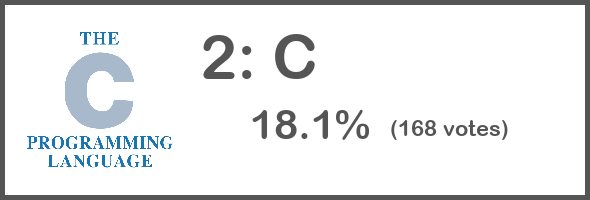
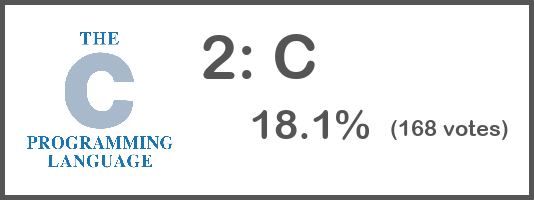
background adjusts to width of text

diff --git a/SurveyGraph.py b/SurveyGraph.py
@@ -45,6 +45,7 @@ colorhex_sortedlst = [colors_ref.at[cname, 'color'] for cname in colornames_sort
 STEP 2: defining Create Language Label Image
 """
 def CreateLangLabelImg_fx(lang_rank, lang_name, vote_percent, vote_count, q_name):
+	'''finding Color and finding Logo image'''
 	# addition to lang_rank
 	lang_rank += 1
 	# finding lang color using Ref table
@@ -59,13 +60,7 @@ def CreateLangLabelImg_fx(lang_rank, lang_name, vote_percent, vote_count, q_name
 	else:
 		lang_logo = Image.open(lang_name+'.png')
 	
-	os.chdir('..')
-	
-	# creating white background
-	background_img = Image.new('RGBA', (580, 190), 'white')
-	# adding border
-	background_img = ImageOps.expand(background_img, border = 5, fill = lang_color)
-	
+	os.chdir('..')	
 	
 	'''Logo'''
 	# resizing LangLogo
@@ -87,26 +82,17 @@ def CreateLangLabelImg_fx(lang_rank, lang_name, vote_percent, vote_count, q_name
 	else:
 		lang_logo = lang_logo.resize((160,160))
 	
-	# pasting LangLogo onto background, creating full image
-	full_img = background_img.copy()
-	# calculating the position of the logo
-	logo_position = (int(20 + (160-lang_logo.size[0])/2), int(20 + (160-lang_logo.size[1])/2))
-	# try as mask
-	try:
-		full_img.paste(lang_logo, logo_position, mask = lang_logo)
-	# if logo is no mask, paste as normal
-	except ValueError:
-		full_img.paste(lang_logo, logo_position)
+	
 	
 	'''Title'''
 	# defining Lang Title Str for the #2 current tie
 	if q_name == 'Q2Current' and lang_name in ['Java', 'JavaScript']:
-		lang_title_str = '2: ' + lang_name
+		lang_title_str = '2 (tie): ' + lang_name
 	# defining the normal Lang Title Str
 	else:
 		lang_title_str = str(lang_rank) + ': ' + lang_name
 	
-	# determing which font number is closest to 65 height for the Title
+	# determing which font number is closest to 60 height for the Title
 	for fsize in np.arange(100,0,-1):
 		# creating langFont
 		lang_title_fnt = ImageFont.truetype('ARLRDBD.TTF', fsize)
@@ -114,28 +100,10 @@ def CreateLangLabelImg_fx(lang_rank, lang_name, vote_percent, vote_count, q_name
 		if lang_title_fnt.getsize(lang_title_str)[1] <= 60:
 			break
 	
-	# determining Title position
-	lang_title_position = (200,20)
-	# creating draw object
-	full_draw = ImageDraw.Draw(full_img)
-	# drawing colored center
-	full_draw.text(lang_title_position, lang_title_str, fill = lang_color, font = lang_title_fnt)
+	# finding the size of the title
+	lang_title_size = lang_title_fnt.getsize(lang_title_str)
 	
-	# drawing black outline... anchor is (290, 30)
-	# FIX LATER
-	'''
-	for position_tup in (list(it.product(np.arange(287, 294), [18])) +	#top border
-							  list(it.product(np.arange(289, 291), [17])) +	#top border extra
-							  list(it.product([292], np.arange(18, 23))) +	#right border
-							  list(it.product([293], np.arange(19, 22))) +	#right border extra
-							  list(it.product(np.arange(287,294), [22])) +	#bottom border
-							  list(it.product(np.arange(289,291), [23])) +	#bottom border extra
-							  list(it.product([288], np.arange(18,23))) +	#left border
-							  list(it.product([287], np.arange(19,22)))):	#left border extra
-		full_draw.text(position_tup, lang_name, fill = 'black', font = lang_fnt)
-	'''
-	
-	'''Vote Info'''
+	'''Vote Perc'''
 	# defining Lang VotePerc Str
 	lang_voteperc_str = '{:.1%}'.format(vote_percent)
 	
@@ -149,9 +117,8 @@ def CreateLangLabelImg_fx(lang_rank, lang_name, vote_percent, vote_count, q_name
 	
 	# defining Lang VotePerc Size
 	lang_voteperc_size = lang_voteperc_fnt.getsize(lang_voteperc_str)
-	# drawing Lang VotePerc
-	full_draw.text((250, 100), lang_voteperc_str, fill = lang_color, font = lang_voteperc_fnt)
 	
+	'''Vote Count'''
 	# defining Lang VoteCount Str
 	lang_votecount_str = '(' + str(int(vote_count)) + ' votes)'
 	
@@ -165,10 +132,65 @@ def CreateLangLabelImg_fx(lang_rank, lang_name, vote_percent, vote_count, q_name
 	
 	# defining Lang VoteCount Size
 	lang_votecount_size = lang_votecount_fnt.getsize(lang_votecount_str)
+	
+	'''White Background Creation'''
+	# determining the width
+	# first, find the longer length between the Title, or Count
+	farthest_title_x = 200 + lang_title_size[0]
+	farthest_count_x = 270 + lang_voteperc_size[0] + lang_votecount_size[0]
+	
+	# creating Background Size, picking between Farthest Title or Count for the X width
+	if farthest_title_x > farthest_count_x:
+		background_size = (farthest_title_x + 15, 190)
+	else:
+		background_size = (farthest_count_x + 15, 190)
+	
+	# creating white background
+	background_img = Image.new('RGBA', background_size, 'white')
+	# adding border
+	background_img = ImageOps.expand(background_img, border = 5, fill = lang_color)
+	
+	'''Pasting Logo'''
+	# pasting LangLogo onto background, creating full image
+	full_img = background_img.copy()
+	# calculating the position of the logo
+	logo_position = (int(20 + (160-lang_logo.size[0])/2), int(20 + (160-lang_logo.size[1])/2))
+	# try as mask
+	try:
+		full_img.paste(lang_logo, logo_position, mask = lang_logo)
+	# if logo is no mask, paste as normal
+	except ValueError:
+		full_img.paste(lang_logo, logo_position)
+	
+	'''Drawing on Title, Vote Perc, and Vote Count'''
+	# determining Title position
+	lang_title_position = (200,20)
+	# creating draw object
+	full_draw = ImageDraw.Draw(full_img)
+	# drawing colored center
+	full_draw.text(lang_title_position, lang_title_str, fill = lang_color, font = lang_title_fnt)
+	
+	# drawing Lang VotePerc
+	full_draw.text((250, 100), lang_voteperc_str, fill = lang_color, font = lang_voteperc_fnt)
+	
 	# drawing Lang VoteCount
 	full_draw.text((270 + lang_voteperc_size[0], 140 - lang_votecount_size[1]),
 						lang_votecount_str, fill = lang_color, font = lang_votecount_fnt)
-		
+	
+	# drawing black outline... anchor is (290, 30)
+	# FIX LATER
+	'''
+	for position_tup in (list(it.product(np.arange(287, 294), [18])) +	#top border
+							  list(it.product(np.arange(289, 291), [17])) +	#top border extra
+							  list(it.product([292], np.arange(18, 23))) +	#right border
+							  list(it.product([293], np.arange(19, 22))) +	#right border extra
+							  list(it.product(np.arange(287,294), [22])) +	#bottom border
+							  list(it.product(np.arange(289,291), [23])) +	#bottom border extra
+							  list(it.product([288], np.arange(18,23))) +	#left border
+							  list(it.product([287], np.arange(19,22)))):	#left border extra
+		full_draw.text(position_tup, lang_name, fill = 'black', font = lang_title_fnt)
+	'''
+	
 	# moving into proper folder and saving image
 	os.chdir('.\LanguageLabels')
 	full_img.save(q_name + '_' + str(lang_rank) + lang_name + '.png')
@@ -201,7 +223,6 @@ for tmp_i, tmp_row in q2_df.iterrows():
 							   vote_count = tmp_row['Q2_Current'],
 							   q_name = 'Q2Current')
 
-
 """
 STEP 3: ggplotting
 """
@@ -218,7 +239,7 @@ parallel_ggplot = (ggplot(mapping = aes(x = 'QType', y = 'PercentNum', color = '
 							  data = parallel_df) +
 						geom_point() +
 						geom_line() +
-						geom_label(mapping = aes(label = 'Language')) +
+						#geom_label(mapping = aes(label = 'Language')) +
 						scale_color_manual(values = colorhex_sortedlst, guide = False) +
 						labs(title = 'Programmer Survey: Languages Academic vs. CurrentUse',
 							   x = 'Question', y = 'Percentage') +
